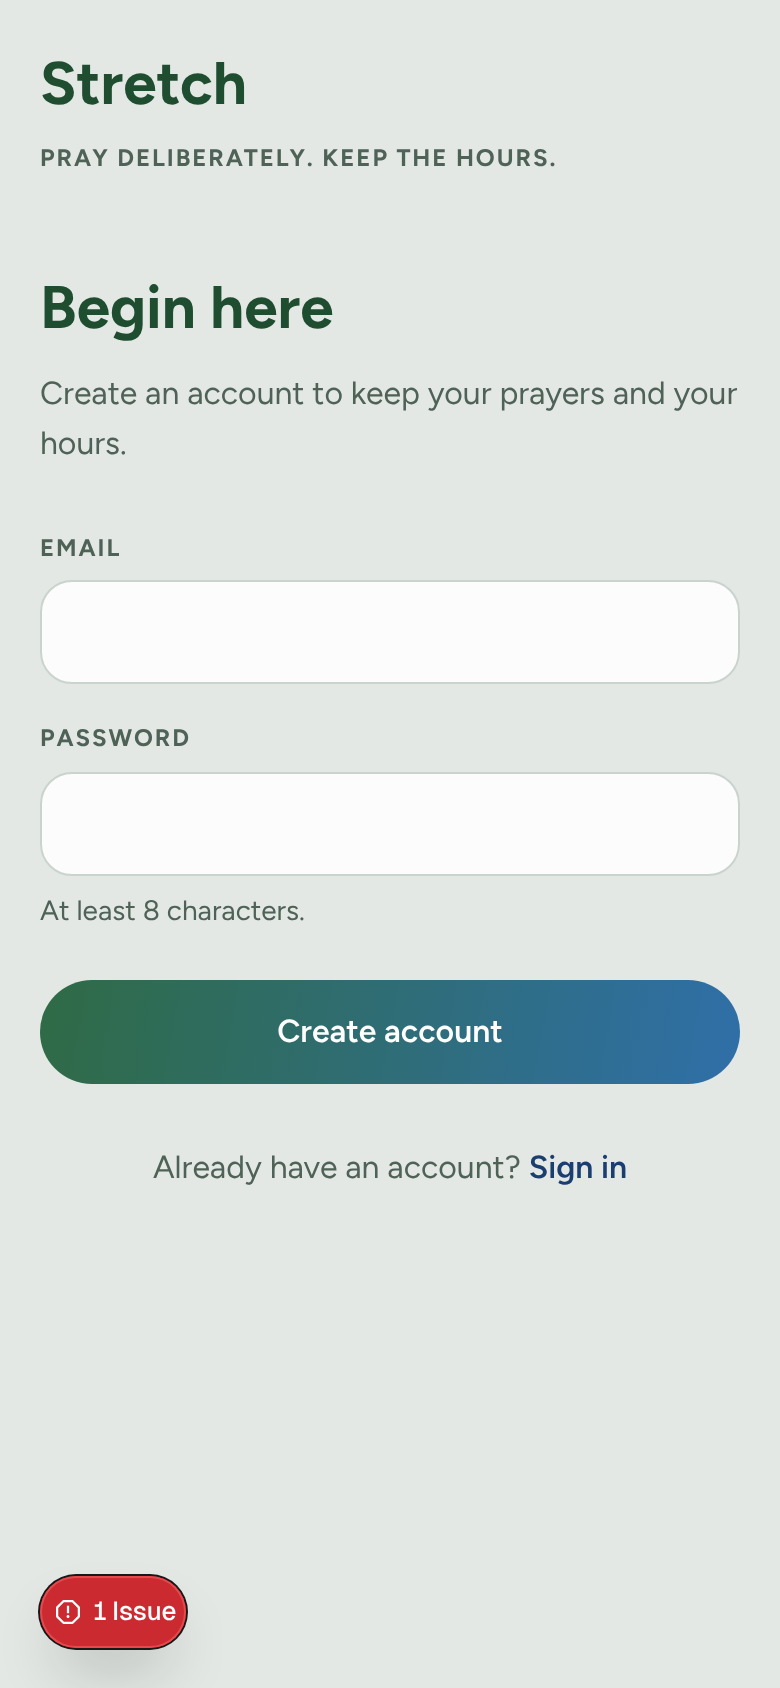
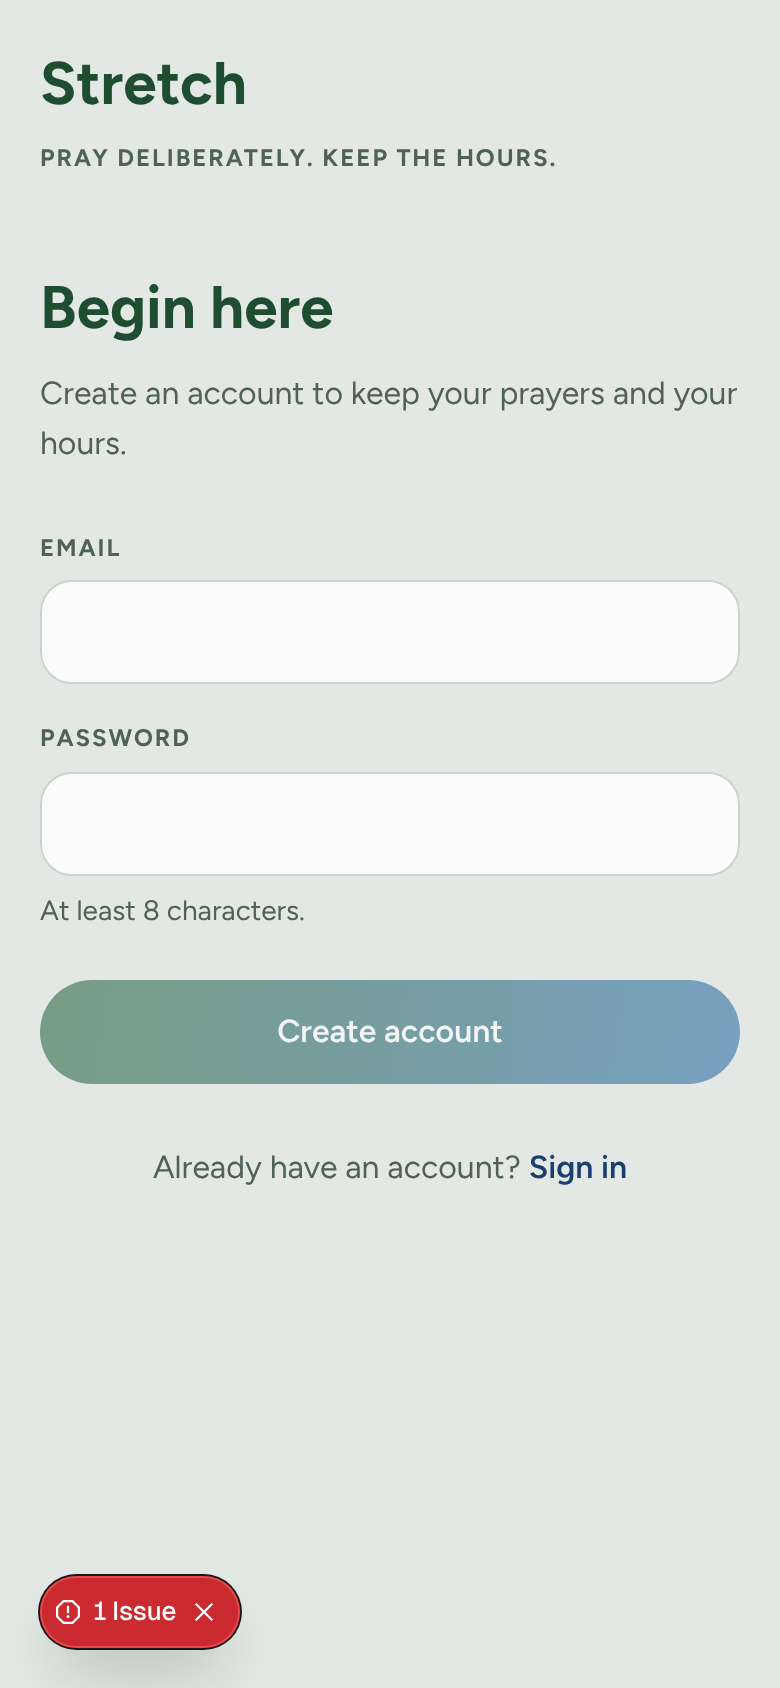
Phase 3: prayers and altars
- Create, edit, archive, reactivate and delete prayers and altars
- Prayer points and key scriptures: add, edit, reorder and remove
- An optional plan: target hours, and start and end dates for prayers
- Pray home tiles, My Prayers lists with counts, and a detail page per prayer
- One all-or-nothing save through the save_prayer database function
- Loading, empty, error and not-found states on every screen
- A calmer look inspired by calm.com: sage, forest green and blue, one typeface
- SQL, unit and browser tests for all of it

Claude-Session: https://claude.ai/code/session_01UXyt5uohd27JNN5iMEV9Rc

Changed region(s): [[0.0308, 0.5545, 0.9538, 0.6469], [0.2154, 0.9242, 0.3077, 0.9858]]

diff --git a/README.md b/README.md
@@ -2,7 +2,7 @@
 
 Pray deliberately. Keep the hours.
 
-Stretch is a mobile-first prayer web app (a PWA) for iPhone and Android, installed to the home screen from the browser. This repository is at **Phase 2: sign-in and onboarding**. People can create an account, sign in, set their name, and manage their account. Prayers, stretches and sharing come in later phases.
+Stretch is a mobile-first prayer web app (a PWA) for iPhone and Android, installed to the home screen from the browser. This repository is at **Phase 3: prayers and altars**. People can sign in, then create and manage prayers and altars, each with prayer points and key scriptures. The stretch (the timed prayer session), notes, testimonies and sharing come in later phases.
 
 > **Placeholders to lock in Phase 6:** the app name ("Stretch"), the manifest `id` (`/`) and the icons (a plain letter S) are placeholders. Changing a manifest `id` after people have installed the app makes phones treat it as a different app, so it is decided once, in Phase 6. There is no service worker or offline support yet.
 
@@ -66,6 +66,26 @@ Signed-out visitors are always sent to `/sign-in`. That check runs in `src/lib/s
 
 Before opening Stretch beyond friends and family: add an email service (custom SMTP), turn **Confirm email** back on, and consider one-time codes in place of passwords. The sign-in form lives in one component, `src/features/auth/AuthForm.tsx`, so that change stays small.
 
+## Prayers and altars
+
+A **prayer** is something specific you are asking for. An **altar** is a long-term prayer you keep returning to. A **stretch** is one timed session of prayer (Phase 4).
+
+| Screen | Address | What it does |
+|---|---|---|
+| Pray | `/` | Tiles for your active altars and prayers. The + button starts a new one |
+| My Prayers | `/prayers` | Three lists with counts: Prayers, Altars, Archived |
+| New | `/prayers/new` | Title (1 to 80 characters), type, an optional plan, prayer points, key scriptures |
+| Detail | `/prayers/[id]` | Title, type, plan, hours so far, points, scriptures, and Edit, Archive, Delete |
+| Edit | `/prayers/[id]/edit` | The same form. The type is fixed once created |
+
+- **Plan (optional):** a target of 1 to 10,000 hours, and for prayers a start and end date. Altars have no end date.
+- **Limits:** up to 20 prayer points of 300 characters, and up to 10 key scriptures.
+- **Archive** sets a prayer aside: it leaves the active lists, keeps everything, and can be reactivated. It cannot be edited while archived.
+- **Delete** asks first, then removes the prayer and everything under it.
+- **Privacy:** a prayer that does not exist and a prayer that is not yours show the same not-found page.
+
+The code lives in `src/features/prayers/`. Reads are in `queries.ts`, writes in `mutations.ts`, input rules in `validation.ts`. Saving is one all-or-nothing call to the `save_prayer` database function, so a dropped connection can never leave a prayer half saved.
+
 ## Checks
 
 ```bash
@@ -107,7 +127,7 @@ The database lives in a hosted Supabase project named **Stretch**. Its schema is
 | Table | Holds |
 |---|---|
 | `profiles` | One row per person, created automatically when they sign up. `display_name` is empty until onboarding |
-| `prayers` | Prayers and altars, each owned by one person |
+| `prayers` | Prayers and altars, each owned by one person, with an optional plan (target hours, start and end date) |
 | `prayer_members` | Who belongs to which prayer, as owner or member |
 | `prayer_invites` | The current 8 character invite code for a prayer |
 | `prayer_points` | The ordered points of a prayer |
@@ -126,6 +146,7 @@ Row level security is on for every table. In short: people can read and change o
 | `get_prayer_hours(prayer_ids)` | The caller's seconds and the group's seconds for prayers they belong to |
 | `get_my_hours(since)` | The caller's own seconds since a date, and in total |
 | `delete_my_account()` | Deletes the caller's account, their data and the prayers they own |
+| `save_prayer(...)` | Creates or updates a prayer with its points and scriptures in one step. Owner only |
 
 Helper functions used only by the security rules live in a `private` schema, which the API does not expose.
 
@@ -211,20 +232,20 @@ You should see the sign-in screen. Create an account, enter your name, and you s
 
 **Android (Chrome):** tap the three-dot menu, then **Add to Home screen** (or **Install app**), then **Install**.
 
-In both cases you should get a deep violet icon with a letter S, named Stretch. Opening it should show the app full screen, with no browser address bar, in portrait, with the tab bar clear of the home bar.
+In both cases you should get a forest green icon with a letter S, named Stretch. Opening it should show the app full screen, with no browser address bar, in portrait, with the tab bar clear of the home bar.
 
 ## Project layout
 
 ```
 src/app          routes: (auth) holds sign-in and sign-up; (tabs) holds the four tab screens;
-                 welcome, prayer/[id] and stretch/[prayerId] are full screen
+                 (focus) holds full-screen pages: prayers/new, prayers/[id], stretch/[prayerId]
 src/components   shared UI: Button, TextField, FormError, TabBar, ConfirmDialog, PageHeader
-src/features     code that belongs to one feature: auth (forms, checks, messages), profile
+src/features     code that belongs to one feature: auth, profile, prayers
 src/lib          Supabase clients (lib/supabase) and helpers
 src/types        database.ts, generated from the schema
 supabase/migrations   the schema, security rules and database functions
 supabase/tests        SQL tests that prove the security rules
-e2e              Playwright tests: sign-in journey and the app smoke test
+e2e              Playwright tests: sign-in journey, prayers and altars, and the app smoke test
 docs             screenshots, and later the prototype
 ```
 

diff --git a/CLAUDE.md b/CLAUDE.md
@@ -15,11 +15,18 @@ Mobile-first prayer PWA. Next.js App Router, TypeScript strict, Tailwind, Supaba
 - Forms: use Button, TextField and FormError from src/components. A submit button stays disabled
   until useHydrated() is true, and the form has method="post", so typed values never reach the URL.
 - Errors shown to people come from src/features/auth/messages.ts, never raw error text.
+- Prayers: all reads go through src/features/prayers/queries.ts and all writes through mutations.ts.
+  Saving a prayer with its points and scriptures is one call to the save_prayer database function.
+- Every screen that loads data has a loading.tsx skeleton in its own folder, an empty state,
+  and falls back to src/app/error.tsx. A prayer that is missing or not yours shows not-found.
+- Next keeps the previous screen in the document, hidden. In Playwright, prefer role locators,
+  which ignore hidden content, over getByText.
 - Screens inside the app are wrapped in ProfileGate (signed in and named). Read the signed-in
   person with useProfile() in client components or getCurrentProfile() on the server.
 - Phone first: design at 390px. Tap targets >= 44px, inputs >= 16px, scripture >= 18px,
   safe-area padding. Light theme only. Theme tokens live in src/app/globals.css.
-  Type: font-serif for titles and scripture, font-sans for reading, the label-mono utility for small labels.
+  One typeface (Figtree). Headings use text-forest; small uppercase labels use the eyebrow utility;
+  main buttons use bg-brand. On wide screens the app stays in a centered phone-width column.
 - Work on a phase branch, never directly on main. Do not merge pull requests.
 
 ## Commands

diff --git a/supabase/tests/README.md b/supabase/tests/README.md
@@ -47,6 +47,8 @@ The script is about 40 KB. It can be run in parts by passing file-name filters, 
 | `i_create_prayer.sql` | Creating a prayer creates the owner membership, and the creator can read the new prayer straight away |
 | `j_delete_my_account.sql` | `delete_my_account` removes only the caller's own data and the prayers they own |
 | `k_structure_and_grants.sql` | Eight tables with RLS on, the seven app functions, the profile trigger, the indexes, and exactly which functions and tables each role may use |
+| `l_prayers_crud.sql` | A person can create, read, update and delete only their own prayers; points and scriptures follow their prayer's access; deleting a prayer removes them; the plan's rules hold |
+| `m_save_prayer.sql` | `save_prayer` saves a prayer with its points and scriptures all or nothing; a retry changes nothing; order is kept; limits of 20 and 10 hold; only the owner can save; another prayer's point cannot be taken over |
 
 ## Error codes the app can rely on
 
@@ -57,6 +59,7 @@ The script is about 40 KB. It can be run in parts by passing file-name filters, 
 | `42501` | Not allowed (not the owner, not a member, or not signed in) |
 | `23514` | A value breaks a rule (for example credited seconds above the elapsed time) |
 | `22004` | A required value is missing (session id, credited seconds, or a note id when a note is sent) |
+| `22023` | Too many prayer points (over 20) or key scriptures (over 10), or a list in the wrong shape |
 
 ## What `complete_session` returns
 
